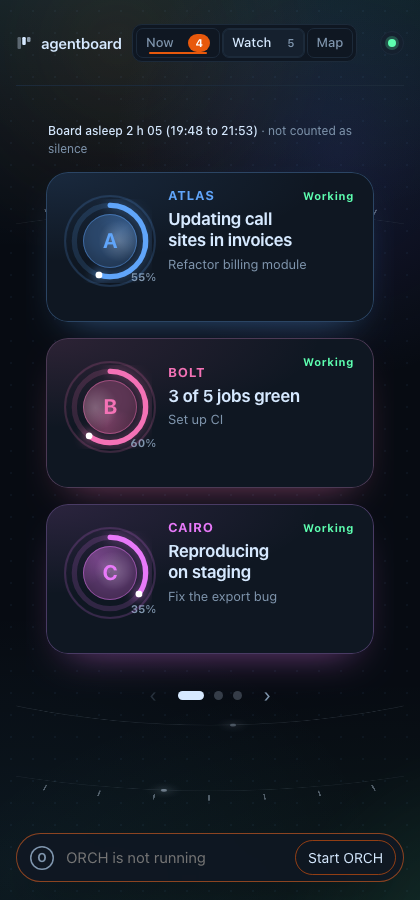
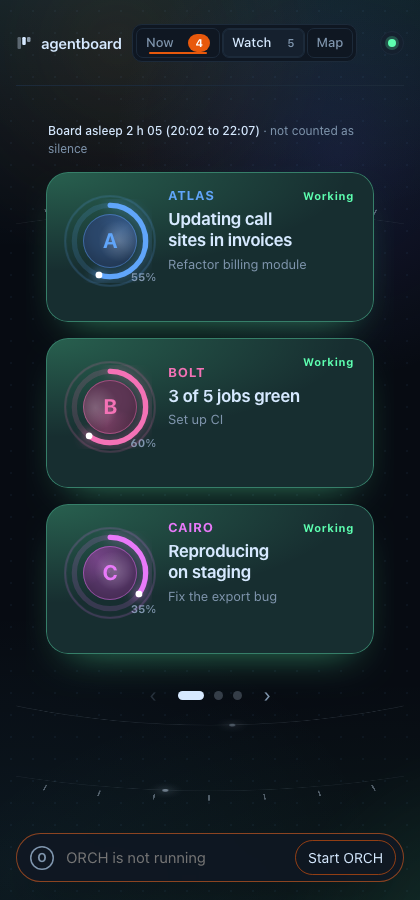
Watch tiles are tinted by state, in the hue of their word (working green, silent orange, gone or blocked red, waiting on you amber, in review blue); a resting tile stays plain; new before/after captures; page test

diff --git a/src/agentboard/static/index.html b/src/agentboard/static/index.html
@@ -584,6 +584,12 @@
      blocked, waiting on you, in review); how long since the agent was heard shows when you hover or focus the tile. One quiet line says when the board itself slept. */
   .w-state { --sc: var(--muted); position: absolute; right: 20px; top: 16px; font-style: normal; font-size: 11px; font-weight: 700; letter-spacing: .06em; color: var(--sc); white-space: nowrap; }
   .w-state.s-working { --sc: var(--ok); } .w-state.s-silent { --sc: var(--run); } .w-state.s-gone, .w-state.s-blocked { --sc: var(--err); } .w-state.s-waiting { --sc: var(--warn); } .w-state.s-review { --sc: var(--info); }
+  /* a tile is tinted by its state, in the hue of its word: working green, silent orange, gone or blocked red, waiting on you amber, in review blue. A resting tile stays untinted. */
+  .w-tile.s-working { --st: var(--ok); } .w-tile.s-silent { --st: var(--run); } .w-tile.s-gone, .w-tile.s-blocked { --st: var(--err); }
+  .w-tile.s-working, .w-tile.s-silent, .w-tile.s-gone, .w-tile.s-blocked { background: radial-gradient(140% 100% at 0 0, color-mix(in srgb, var(--st) 24%, transparent), transparent 66%), color-mix(in srgb, var(--st) 10%, var(--surface));
+    box-shadow: inset 0 0 0 1px color-mix(in srgb, var(--st) 40%, var(--line)), 0 18px 40px -22px color-mix(in srgb, var(--st) 55%, transparent); }
+  .w-tile.w-waiting.s-waiting { --y: var(--warn); } .w-tile.w-waiting.s-review { --y: var(--info); }
+  .w-tile.w-waiting.s-waiting, .w-tile.w-waiting.s-review { background: radial-gradient(140% 100% at 0 0, color-mix(in srgb, var(--y) 24%, transparent), transparent 66%), color-mix(in srgb, var(--y) 10%, var(--surface)); }
   .w-tile .w-heard { opacity: 0; transition: opacity .2s; } .w-tile:hover .w-heard, .w-tile.sel .w-heard, .w-tile:focus-visible .w-heard { opacity: 1; }
   .w-sleep { max-width: 1180px; margin: 14px auto 0; padding: 0 22px; font-size: 12px; color: var(--muted); transition: opacity .35s, filter .35s; } .w-sleep b { font-weight: 500; color: var(--text); font-variant-numeric: tabular-nums; }
   .deck.watch.focused .w-sleep { opacity: .12; filter: blur(3px); pointer-events: none; }
@@ -2983,14 +2989,14 @@ function watchHtml(by, n) {   // The whole team. Working agents are tiles (alive
   const tile = t => { const p = t.progress || 0, line = parentLine(t) || t.status_text || 'working', was = watchPrev.get(t.id), secs = wSecs(t), st = wState(secs);
     const dp = was ? p - was.p : 0, moved = !!was && (dp !== 0 || was.line !== line), isNew = watchSeen && !was;
     const slotsNow = t.subs && t.subs.length ? t.subs : (kidsMap.get(t.id) || []), dn = slotsNow.filter(sl => subDone(byId.get(sl.id) || sl)).length, sparkAt = was && dn > (was.dn || 0) ? dn - 1 : -1;
-    return `<article class="w-tile w-nav ${st}${moved ? ' moved' : ''}${isNew ? ' new' : ''}${watchSel === t.id ? ' sel' : ''}${watchOpenId === t.id ? ' lifted' : ''}" style="--c:${colorOf(t)}" data-watch="${esc(t.id)}" data-wid="${esc(t.id)}" data-p="${p}" data-was="${was ? was.p : p}" data-dn="${dn}" data-spark="${sparkAt}" data-line="${esc(line)}" data-upd="${esc(t.updated)}" tabindex="0" role="button" aria-label="${esc(name(t))}, ${esc(line)}, ${p}%, ${st === 'silent' ? 'last heard ' : 'heard '}${secs < 90 ? Math.max(1, Math.round(secs)) + ' seconds ago' : esc(ago(t.updated).text)}">
+    return `<article class="w-tile w-nav ${st}${watchTint(t.agent)}${moved ? ' moved' : ''}${isNew ? ' new' : ''}${watchSel === t.id ? ' sel' : ''}${watchOpenId === t.id ? ' lifted' : ''}" style="--c:${colorOf(t)}" data-watch="${esc(t.id)}" data-wid="${esc(t.id)}" data-p="${p}" data-was="${was ? was.p : p}" data-dn="${dn}" data-spark="${sparkAt}" data-line="${esc(line)}" data-upd="${esc(t.updated)}" tabindex="0" role="button" aria-label="${esc(name(t))}, ${esc(line)}, ${p}%, ${st === 'silent' ? 'last heard ' : 'heard '}${secs < 90 ? Math.max(1, Math.round(secs)) + ' seconds ago' : esc(ago(t.updated).text)}">
 <div class="w-ring"><svg viewBox="0 0 80 80" aria-hidden="true"><circle class="tr" cx="40" cy="40" r="34"/><circle class="fg" cx="40" cy="40" r="34" pathLength="100" stroke-dasharray="${was ? was.p : p} 100"/>${p > 0 && p < 100 ? `<circle class="tip" r="3.2" cx="${(40 + 34 * Math.cos(p / 100 * 2 * Math.PI)).toFixed(2)}" cy="${(40 + 34 * Math.sin(p / 100 * 2 * Math.PI)).toFixed(2)}"/>` : ''}</svg>${orb(t.agent)}<em>${was ? was.p : p}</em>${dp > 0 ? `<u class="w-delta">+${dp}%</u>` : ''}</div>
 <div class="w-tx"><b>${esc(name(t))}${roleChip(t.agent)}</b><span class="w-now${was && was.line !== line ? ' swap' : ''}" title="${esc(line)}">${esc(line)}</span>${was && was.line !== line ? `<span class="w-was" aria-hidden="true">${esc(was.line)}</span>` : ''}<span class="w-card">${esc(t.title)}${(t._more || []).length ? `<i class="w-more-n" title="${esc(t._more.map(x => x.title).join(' · '))}"> · +${t._more.length} more</i>` : ''}</span><span class="w-heard">${wHeard(secs, t.updated)}</span></div>
 <span class="segs">${segsOf(t)}</span>${watchWord(t.agent)}</article>`; };
   const liveNames = new Set(live.map(name));
   const rank = { ask: 0, rev: 1, fin: 2, quiet: 3 }, groups = new Map(); wait.forEach(t => { const g = groups.get(name(t)) || []; g.push(t); groups.set(name(t), g); });   // one card per agent: its most pressing card, and how many
   const waitTile = g => { g.sort((a, b) => rank[kOf(a)] - rank[kOf(b)]); const t = g[0], y = youOf(t), wid = 'wait:' + name(t), verb = y.k === 'ask' ? 'Answer' : y.k === 'rev' ? 'Sign off' : y.k === 'fin' ? 'Close it' : 'Check on it';
-    return `<article class="w-tile w-nav w-waiting ${y.k}${watchSeen && watchLiveWas.has(name(t)) && !liveNames.has(name(t)) ? ' flipin' : ''}${watchSel === wid ? ' sel' : ''}${watchOpenId === wid ? ' lifted' : ''}" style="--c:${colorOf(t)}" data-wait="${esc(t.id)}" data-wid="${esc(wid)}" tabindex="0" role="button" aria-label="${esc(name(t))} is waiting on you: ${esc(verb)}, ${g.length} card${g.length === 1 ? '' : 's'}">
+    return `<article class="w-tile w-nav w-waiting ${y.k}${watchTint(name(t))}${watchSeen && watchLiveWas.has(name(t)) && !liveNames.has(name(t)) ? ' flipin' : ''}${watchSel === wid ? ' sel' : ''}${watchOpenId === wid ? ' lifted' : ''}" style="--c:${colorOf(t)}" data-wait="${esc(t.id)}" data-wid="${esc(wid)}" tabindex="0" role="button" aria-label="${esc(name(t))} is waiting on you: ${esc(verb)}, ${g.length} card${g.length === 1 ? '' : 's'}">
 <div class="w-ring">${orb(t.agent)}${g.length > 1 ? `<em class="n">${g.length}</em>` : ''}</div>
 <div class="w-tx"><b>${esc(name(t))}${roleChip(t.agent)}</b><span class="w-now">${esc(y.say || verb)}</span><span class="w-card"><i class="w-verb">You · ${esc(verb)}</i></span></div>${watchWord(name(t), '<i class="w-age">waiting</i>')}</article>`; };
   const idleTile = a => `<article class="w-tile w-nav w-idling${watchSel === 'idle:' + a ? ' sel' : ''}" data-wid="${esc('idle:' + a)}" tabindex="0" aria-label="${esc(a)} is idle"><div class="w-ring">${orb(a)}<i class="zz" aria-hidden="true">z</i><i class="zz" aria-hidden="true">z</i><i class="zz" aria-hidden="true">z</i></div><div class="w-tx"><b>${esc(a)}${roleChip(a)}</b><span class="w-now">Resting</span><span class="w-card">Nothing in hand</span></div></article>`;
@@ -3031,6 +3037,7 @@ function watchTake(st) {   // from stripLoad: keep the server's status block, an
   render();
 }
 const watchStateOf = name => (watchRows.get(name) || {}).state || '';
+const watchTint = name => { const st = watchStateOf(name); return st && WATCH_STATE[st] && st !== 'idle' && st !== 'away' ? ' s-' + esc(st) : ''; };   // the class that tints a tile by its state (nothing for a resting agent or before the server has said)
 const watchWord = (name, fallback) => { const st = watchStateOf(name); return st && WATCH_STATE[st] ? `<i class="w-state s-${esc(st)}">${esc(WATCH_STATE[st])}</i>` : fallback || ''; };   // one word, one colour; nothing when the server has not said
 function watchSleepHtml(a) {   // one quiet line: the stretch the board was not running is never counted as an agent's silence
   if (!a) return '';

diff --git a/tests/test_status.py b/tests/test_status.py
@@ -280,6 +280,14 @@ class ThePage(unittest.TestCase):
             self.assertIn(sel, self.HTML)
         self.assertIn("@media (prefers-reduced-motion: reduce) { .w-tile .w-heard { transition: none; } }", self.HTML)
 
+    def test_a_tile_is_tinted_by_its_state_in_the_hue_of_its_word(self):
+        w = self.body("watchHtml")
+        self.assertEqual(w.count("${watchTint("), 2)   # a working tile and a waiting tile
+        for state in ("working", "silent", "gone", "blocked"):
+            self.assertIn(".w-tile.s-" + state, self.HTML)
+        self.assertIn(".w-tile.w-waiting.s-waiting { --y: var(--warn); } .w-tile.w-waiting.s-review { --y: var(--info); }", self.HTML)
+        self.assertIn("st !== 'idle' && st !== 'away'", self.HTML)   # a resting tile stays as it was
+
     def test_how_long_since_an_agent_was_heard_leaves_out_the_time_the_board_slept(self):
         w = self.body("wSecs") if False else self.HTML[self.HTML.index("const wSecs = t => {"):self.HTML.index("// How long since an agent was heard")]
         self.assertIn("watchStatus.asleep", w)

diff --git a/CHANGELOG.md b/CHANGELOG.md
@@ -32,7 +32,7 @@ Built on the board side of slice 3 (the Build and Dream-up configurations, the e
 
 ### Watch: a state word on every tile, and a sleeping board is not silence (Nov 14, slice 1 of docs/status-visibility-design.md)
 Checking Watch, Now, ORCH and each agent for status was a ritual; the board held the answer but showed only percent and "doing", and it called every agent silent after the Mac slept. This is the first slice, as the owner approved the design and then shaped it on seeing it: Watch keeps its 3x3 tiles, no strip of counts.
-- **One state word in one colour on each tile**, at its top right: working, silent, presumed gone, blocked, waiting on you, in review (a resting agent keeps its "Resting" tile). How long since the agent was heard shows when you hover or focus the tile, so a tile stays calm. The words are not about software: a call to book or a bill to pay reads the same as a build. A card in review waits on ORCH until ORCH has recorded its sign-off, then on you, but only on a board where ORCH signs off at all; on any other it waits on you.
+- **One state word in one colour on each tile**, at its top right: working, silent, presumed gone, blocked, waiting on you, in review (a resting agent keeps its "Resting" tile). The tile is tinted in the hue of its word: working green, silent orange, gone or blocked red, waiting on you amber, in review blue. How long since the agent was heard shows when you hover or focus the tile, so a tile stays calm. The words are not about software: a call to book or a bill to pay reads the same as a build. A card in review waits on ORCH until ORCH has recorded its sign-off, then on you, but only on a board where ORCH signs off at all; on any other it waits on you.
 - **A sleeping board is not silence:** the server notes the stretches it was not running (`.agentboard/asleep.jsonl`, two times and nothing else, with or without `[insights]`). The HUD, the tiles' "heard" clock, the silent mark and every "has it gone quiet?" check on the page (the Now pile, Watch, By agent) count an agent's quiet in awake minutes only, and Watch says "Board asleep 2 h 05 (04:20 to 06:25) · not counted as silence" in one quiet line when it applies. The roll-up and the watchdog still count the card's raw age; they are not part of slice 1.
 - `/api/hud` carries a `status` block (a row per agent with its state word and who it waits on, the five counts, the latest sleep) and each agent a `quiet_min`; no new route, no new setting. The five counts are kept for the later digest; the page does not draw them. Not built (slices 2 to 4): the shared queues and "In queue", the track per kind of card, the six-hour strips, the digest and the Ask box.
 - Checked: `tests/test_status.py` (31: the sleep record, the rule on the same card with and without a sleep, every state word, who waits on whom, the counts and their order, `/api/hud`, the server tick, the page source); render-check wide, narrow, light and dark against a throwaway board.

diff --git a/docs/status-visibility-design.md b/docs/status-visibility-design.md
@@ -8,7 +8,7 @@ Design only. Nothing here is built and nothing will be until the owner approves 
 
 Decision 1 changed once there was something to look at. The first draft replaced Watch's tiles with a row per agent under a strip of five counts; the owner liked the calm of the second draft
 (one state word, detail on hover, room) and asked for **Watch to keep its 3x3 tiles and for the strip of counts to go**. So slice 1 is: one state word in one colour on each tile, the
-"heard" line on hover, and the one quiet board-asleep line. The rows, the strip and the six-hour strips below describe the design as approved; the page now draws only the tile words and
+"heard" line on hover, a tint on each tile in the hue of its word (asked for on seeing it: the first pictures looked too alike), and the one quiet board-asleep line. The rows, the strip and the six-hour strips below describe the design as approved; the page now draws only the tile words and
 the sleep line. The server still works out the counts and a row per agent (`status.py`) for the digest and the Ask box. The eight words must read the same for any kind of card; the track
 under a card (slice 3) will be one per kind: a build (build, review, merged, gated, signed off), research or design (draft, review, signed off), an errand or a call (prepare, your approval, done).
 
